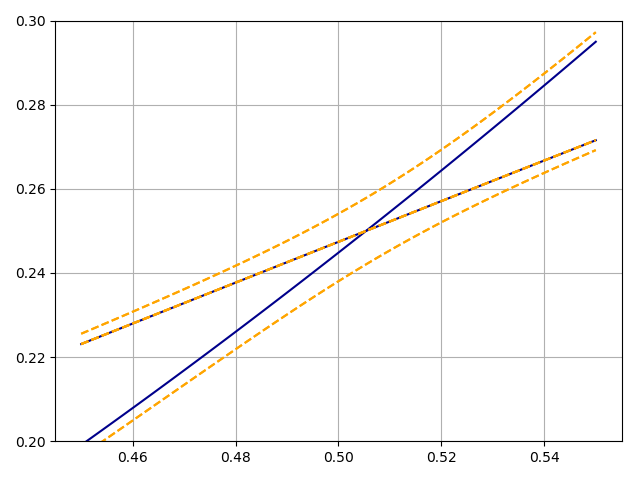
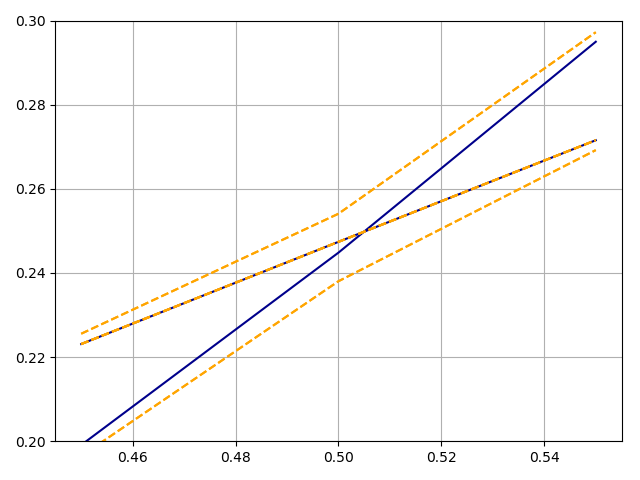
Modified magnonpolaron files.  "with base" file has a bug.

diff --git a/examples/magnonpolarons_with_base.py b/examples/magnonpolarons_with_base.py
@@ -1,0 +1,257 @@
+# coding: utf-8
+# !/usr/bin/env python
+
+import numpy as np
+import os
+import sys
+
+sys.path.insert(0, "..")
+from BosonicSystem import *
+
+os.chdir("..")
+
+# # # # # # # # # # # # # # # # # # # # # # # # # # # # # # # # # # # # # # # #
+# Constants
+# # # # # # # # # # # # # # # # # # # # # # # # # # # # # # # # # # # # # # # #
+N = 1  # number of sites per unit cell
+
+# phonon constants
+hbar = 1
+m = 1 * np.ones(N)
+Omega = np.array([[1.0, 0.0, 0.0],
+                  [0.0, 1.0, 0.0],
+                  [0.0, 0.0, 1.0]])
+
+# magnon constants
+mu_B = 1
+g = 1
+S = 1 * np.ones(N)
+J = 1
+Dz = 0
+Bz = 0 * np.ones(N)
+
+# magnon polarons constants
+Dprime = np.array([[0.0, 0.0, 0.0],
+                   [0.0, 0.0, 0.0],
+                   [0.0, 0.0, 0.0]])
+Bprime = np.array([[[0.01, 0.0, 0.0],
+                   [0.02, 0.0, 0.0],
+                   [0.03, 0.0, 0.0]]])
+
+# lattice constants
+a = 1
+k_arr = np.linspace(-np.pi/(N*a), np.pi/(N*a), num=100)
+
+k_arr = np.linspace(0.45, 0.55, num=1)
+ylim = [0.20, 0.30]
+
+# # # # # # # # # # # # # # # # # # # # # # # # # # # # # # # # # # # # # # # #
+# main
+# # # # # # # # # # # # # # # # # # # # # # # # # # # # # # # # # # # # # # # #
+def main():
+    dispersion_relation(k_arr)
+
+
+# # # # # # # # # # # # # # # # # # # # # # # # # # # # # # # # # # # # # # # #
+# Functions
+# # # # # # # # # # # # # # # # # # # # # # # # # # # # # # # # # # # # # # # #
+def order_eig(X):
+    vals, vecs = np.linalg.eig(X)
+    i_arr = np.argsort(vals)
+
+    return vals[i_arr], vecs[:, i_arr]
+
+
+def Phi_matrix(k):
+    """
+    Fourier transform of elastic interactions
+    """
+    matrix = np.zeros((3*N, 3*N), dtype=complex)
+
+    for j1 in range(0,3*N,3):
+        for j2 in range(0,3*N,3):
+            if(j1 == j2):
+                matrix[j1:j1+3, j2:j2+3] += 2 * Omega / np.sqrt(m[j1//3]*m[j2//3])
+            if(j1-3 == j2):
+                matrix[j1:j1+3, j2:j2+3] -= Omega / np.sqrt(m[j1//3]*m[j2//3])
+            if(j1 == j2-3):
+                matrix[j1:j1+3, j2:j2+3] -= Omega / np.sqrt(m[j1//3]*m[j2//3])
+            if(j1 == 0 and j2 == 3*N-3):
+                matrix[j1:j1+3, j2:j2+3] -= Omega / np.sqrt(m[j1//3]*m[j2//3]) * \
+                    np.exp(-1j*k*N*a)
+            if(j1 == 3*N-3 and j2 == 0):
+                matrix[j1:j1+3, j2:j2+3] -= Omega / np.sqrt(m[j1//3]*m[j2//3]) * \
+                    np.exp(1j*k*N*a)
+
+    return matrix
+
+
+def J_matrix(k):
+    matrix = np.zeros((N, N), dtype=complex)
+
+    for j1 in range(N):
+        for j2 in range(N):
+            if(j1-1 == j2):
+                matrix[j1,j2] += J
+            if(j1 == j2-1):
+                matrix[j1,j2] += J
+            if(j1 == 0 and j2 == N-1):
+                matrix[j1,j2] += J * np.exp(-1j*k*N*a)
+            if(j1 == N-1 and j2 == 0):
+                matrix[j1,j2] += J * np.exp(1j*k*N*a)
+
+    return matrix
+
+
+def Dz_matrix(k):
+    matrix = np.zeros((N, N), dtype=complex)
+
+    for j1 in range(0,N):
+        for j2 in range(0,N):
+            if(j1-1 == j2):
+                matrix[j1,j2] += Dz
+            if(j1 == j2-1):
+                matrix[j1,j2] -= Dz
+            if(j1 == 0 and j2 == N-1):
+                matrix[j1,j2] += Dz * np.exp(-1j*k*N*a)
+            if(j1 == N-1 and j2 == 0):
+                matrix[j1,j2] -= Dz * np.exp(1j*k*N*a)
+
+    return matrix
+
+
+def Dprime_tensor(k):
+    pass
+
+def Psi(k, eps_k):
+    s = 0
+    for beta in range(3):
+        s += np.sqrt(0.25*hbar*S) * (
+            S*np.abs(np.exp(1j*k*a)-1)**2*(1j*Dprime[0,beta]+Dprime[1,beta]) -
+            mu_B*g*(Bprime[0,beta]-1j*Bprime[1,beta])
+        )*eps_k[beta]
+    return s
+
+
+def create_Tmatrix(k):
+    # alpha = [a{k,1...N}, c{k,1...3*N}, a{-k,1...N}, c{-k,1...3*N}]
+    Tmatrix = np.zeros((8*N, 8*N), dtype=complex)
+
+    phi, eps_arr = order_eig(Phi_matrix(k))
+    Jk, J0 = J_matrix(k), J_matrix(0)
+    Dk, D0 = Dz_matrix(k), Dz_matrix(0)
+    Dprime_k, Dprime_0 = Dprime_tensor(k), Dprime_tensor(0)
+
+    # magnon terms
+    for j1 in range(N):
+        for j2 in range(N):
+            Tmatrix[j1,j1] += 0.5*np.sqrt(S[j1]*S[j2]) * J0[j1,j2]
+            Tmatrix[j2,j2] += 0.5*np.sqrt(S[j1]*S[j2]) * J0[j1,j2]
+            Tmatrix[j1,j2] -= 0.5*np.sqrt(S[j1]*S[j2]) * \
+                (Jk[j1,j2] + np.conjugate(Jk[j1,j2]))
+            Tmatrix[j1,j2] -= 0.5j*np.sqrt(S[j1]*S[j2]) * \
+                (Dk[j1,j2] - np.conjugate(Dk[j1,j2]))
+            Tmatrix[j1,j2] += Bz[j1] * (j1 == j2)
+
+            Tmatrix[4*N+j1,4*N+j1] += 0.5*np.sqrt(S[j1]*S[j2]) * J0[j1,j2]
+            Tmatrix[4*N+j2,4*N+j2] += 0.5*np.sqrt(S[j1]*S[j2]) * J0[j1,j2]
+            Tmatrix[4*N+j1,4*N+j2] -= 0.5*np.sqrt(S[j1]*S[j2]) * \
+                (Jk[j1,j2] + np.conjugate(Jk[j1,j2]))
+            Tmatrix[4*N+j1,4*N+j2] -= 0.5j*np.sqrt(S[j1]*S[j2]) * \
+                (Dk[j1,j2] - np.conjugate(Dk[j1,j2]))
+            Tmatrix[4*N+j1,4*N+j2] += Bz[j1] * (j1 == j2)
+
+    # phonon terms
+    for lambd in range(3*N):
+        Tmatrix[N+lambd,N+lambd] += 0.25*hbar * (np.conjugate(phi[lambd]) + 1)
+        Tmatrix[5*N+lambd,5*N+lambd] += 0.25*hbar * (np.conjugate(phi[lambd]) + 1)
+
+    # magnon-phonon interaction
+    for beta in range(3*N):
+        for lambd in range(3*N):
+            for j1 in range(N):
+                Tmatrix[j1,N+lambd] -= 0.5 * mu_B*g*np.sqrt(0.25*hbar*S[j1]) * \
+                    (Bprime[j1,0,beta]+1j*Bprime[j1,1,beta])*eps_arr[beta,lambd]
+                Tmatrix[N+lambd,j1] -= 0.5 * mu_B*g*np.sqrt(0.25*hbar*S[j1]) * \
+                    np.conjugate((Bprime[j1,0,beta]+1j*Bprime[j1,1,beta]) *
+                                 eps_arr[beta,lambd])
+                Tmatrix[5*N+lambd,4*N+j1] -= 0.5 * mu_B*g*np.sqrt(0.25*hbar*S[j1]) * \
+                    (Bprime[j1,0,beta]-1j*Bprime[j1,1,beta])*eps_arr[lambd,beta]
+                Tmatrix[4*N+j1,5*N+lambd] -= 0.5 * mu_B*g*np.sqrt(0.25*hbar*S[j1]) * \
+                    np.conjugate((Bprime[j1,0,beta]-1j*Bprime[j1,1,beta]) *
+                                 eps_arr[lambd,beta])
+                for j2 in range(N):
+                    pass
+
+    return Tmatrix
+
+
+def create_Umatrix(k):
+    # alpha = [a{k,1...N}, c{k,1...3*N}, a{-k,1...N}, c{-k,1...3*N}]
+    Umatrix = np.zeros((8*N, 8*N), dtype=complex)
+
+    phi, eps_arr = order_eig(Phi_matrix(k))
+    Jk, J0 = J_matrix(k), J_matrix(0)
+    Dk, D0 = Dz_matrix(k), Dz_matrix(0)
+
+    # magnon terms
+    None
+
+    # phonon terms
+    for lambd in range(3*N):
+        Umatrix[N+lambd,5*N+lambd] += 0.25*hbar * (np.conjugate(phi[lambd]) - 1)
+        Umatrix[5*N+lambd,N+lambd] += 0.25*hbar * (np.conjugate(phi[lambd]) - 1)
+
+    # magnon-phonon interaction
+    for beta in range(3*N):
+        for lambd in range(3*N):
+            for j1 in range(N):
+                Umatrix[j1,5*N+lambd] -= mu_B*g*np.sqrt(0.25*hbar*S) * \
+                    (Bprime[j1,0,beta]+1j*Bprime[j1,1,beta])*eps_arr[lambd,beta]
+                Umatrix[5*N+lambd,j1] -= mu_B*g*np.sqrt(0.25*hbar*S) * \
+                    (Bprime[j1,0,beta]+1j*Bprime[j1,1,beta])*eps_arr[lambd,beta]
+
+    return Umatrix
+
+
+def dispersion_relation(k_arr):
+    num_k = k_arr.shape[0]
+
+    energies = np.zeros((2*8*N, num_k), dtype=complex)
+    U = [None for _ in range(num_k)]
+
+    for i, k in enumerate(k_arr):
+        bosonic_system = BosonicSystem(create_Tmatrix(k), create_Umatrix(k))
+        energies[:,i], U[i] = bosonic_system.diagonalize()
+
+    fig = plt.figure()
+    ax = fig.add_subplot(111)
+    ax.plot(k_arr, phonon_energy(k_arr), color="darkblue")
+    ax.plot(k_arr, magnon_energy(k_arr), color="darkblue")
+    for i in range(len(energies)//2):
+        ax.plot(k_arr, np.real(energies[i,:]), '--', color="orange")
+
+    try:
+        ax.set_ylim(ylim)
+    except:
+        pass
+    ax.grid()
+    fig.tight_layout()
+    fig.savefig("img/magnon_polarons_with_base.png")
+
+    # plt.show()
+    plt.close(fig)
+
+
+def phonon_energy(k):
+    return hbar*Omega[0,0]*np.abs(np.sin(0.5*k_arr*a))
+
+def magnon_energy(k):
+    return 2*J*S*(1-np.cos(k*a)) - 2*Dz*S*np.sin(k*a) + Bz
+
+
+# # # # # # # # # # # # # # # # # # # # # # # # # # # # # # # # # # # # # # # #
+# main
+# # # # # # # # # # # # # # # # # # # # # # # # # # # # # # # # # # # # # # # #
+if __name__ == '__main__':
+    main()

diff --git a/examples/magnonpolarons_threedimensional.py b/examples/magnonpolarons_threedimensional.py
@@ -40,7 +40,7 @@ Bprime = np.array([[0.01, 0.0, 0.0],
 a = 1
 k_arr = np.linspace(-np.pi/a, np.pi/a, num=100)
 
-k_arr = np.linspace(0.45, 0.55, num=100)
+k_arr = np.linspace(0.45, 0.55, num=3)
 ylim = [0.20, 0.30]
 
 # # # # # # # # # # # # # # # # # # # # # # # # # # # # # # # # # # # # # # # #
@@ -80,21 +80,21 @@ def create_Tmatrix(k):
     w = 2*J*S*(1-np.cos(k*a)) - 2*Dz*S*np.sin(k*a) + mu_B*g*Bz
 
     # magnon terms
-    Tmatrix[0,0] = w
-    Tmatrix[4,4] = w
+    Tmatrix[0,0] += w
+    Tmatrix[4,4] += w
 
     # phonon terms
     for lambd in range(1,4):
-        Tmatrix[lambd,lambd] = u + v[lambd-1]
-        Tmatrix[4+lambd,4+lambd] = u + v[lambd-1]
+        Tmatrix[lambd,lambd] += u + v[lambd-1]
+        Tmatrix[4+lambd,4+lambd] += u + v[lambd-1]
 
     # magnon-phonon interaction
     for lambd in range(1,4):
-        Tmatrix[0,lambd] = 0.5*np.conjugate(Psi(k,vecs[:,lambd-1]))
-        Tmatrix[lambd,0] = 0.5*Psi(k,vecs[:,lambd-1])
+        Tmatrix[0,lambd] += 0.5*np.conjugate(Psi(k,vecs[:,lambd-1]))
+        Tmatrix[lambd,0] += 0.5*Psi(k,vecs[:,lambd-1])
 
-        Tmatrix[4,4+lambd] = 0.5*np.conjugate(Psi(k,vecs[:,lambd-1]))
-        Tmatrix[4+lambd,4] = 0.5*Psi(k,vecs[:,lambd-1])
+        Tmatrix[4,4+lambd] += 0.5*np.conjugate(Psi(k,vecs[:,lambd-1]))
+        Tmatrix[4+lambd,4] += 0.5*Psi(k,vecs[:,lambd-1])
 
     return Tmatrix
 
@@ -113,13 +113,13 @@ def create_Umatrix(k):
 
     # phonon terms
     for lambd in range(1,4):
-        Umatrix[lambd,4+lambd] = -u + v[lambd-1]
-        Umatrix[4+lambd,lambd] = -u + v[lambd-1]
+        Umatrix[lambd,4+lambd] += -u + v[lambd-1]
+        Umatrix[4+lambd,lambd] += -u + v[lambd-1]
 
     # magnon-phonon interaction
     for lambd in range(1,4):
-        Umatrix[0,4+lambd] = np.conjugate(Psi(k,vecs[:,lambd-1]))
-        Umatrix[0+lambd,4] = np.conjugate(Psi(k,vecs[:,lambd-1]))
+        Umatrix[0,4+lambd] += np.conjugate(Psi(k,vecs[:,lambd-1]))
+        Umatrix[0+lambd,4] += np.conjugate(Psi(k,vecs[:,lambd-1]))
 
     return Umatrix
 

diff --git a/examples/magnonpolarons_unidimensional.py b/examples/magnonpolarons_unidimensional.py
@@ -57,16 +57,16 @@ def create_Tmatrix(k):
     # alpha = {a{k}, c{k}, a{-k}, c{-k}}
     Tmatrix = np.zeros((4, 4), dtype=complex)
 
-    Tmatrix[0,0] = 2*J*S*(1-np.cos(k*a)) - 2*Dz*S*np.sin(k*a) + mu_B*g*Bz
-    Tmatrix[1,1] = hbar/(4*m) + hbar*m*omega**2*(1-np.cos(k*a))/2
-    Tmatrix[2,2] = 2*J*S*(1-np.cos(k*a)) - 2*Dz*S*np.sin(k*a) + mu_B*g*Bz
-    Tmatrix[3,3] = hbar/(4*m) + hbar*m*omega**2*(1-np.cos(k*a))/2
+    Tmatrix[0,0] += 2*J*S*(1-np.cos(k*a)) - 2*Dz*S*np.sin(k*a) + mu_B*g*Bz
+    Tmatrix[1,1] += hbar/(4*m) + hbar*m*omega**2*(1-np.cos(k*a))/2
+    Tmatrix[2,2] += 2*J*S*(1-np.cos(k*a)) - 2*Dz*S*np.sin(k*a) + mu_B*g*Bz
+    Tmatrix[3,3] += hbar/(4*m) + hbar*m*omega**2*(1-np.cos(k*a))/2
 
-    Tmatrix[0,1] = 0.5*np.conjugate(psi(k))
-    Tmatrix[1,0] = 0.5*psi(k)
+    Tmatrix[0,1] += 0.5*np.conjugate(psi(k))
+    Tmatrix[1,0] += 0.5*psi(k)
 
-    Tmatrix[2,3] = 0.5*np.conjugate(psi(k))
-    Tmatrix[3,2] = 0.5*psi(k)
+    Tmatrix[2,3] += 0.5*np.conjugate(psi(k))
+    Tmatrix[3,2] += 0.5*psi(k)
 
     return Tmatrix
 
@@ -75,11 +75,11 @@ def create_Umatrix(k):
     # alpha = {a{k}, c{k}, a{-k}, c{-k}}
     Umatrix = np.zeros((4, 4), dtype=complex)
 
-    Umatrix[1,3] = -hbar/(4*m) + hbar*m*omega**2*(1-np.cos(k*a))/2
-    Umatrix[3,1] = -hbar/(4*m) + hbar*m*omega**2*(1-np.cos(k*a))/2
+    Umatrix[1,3] += -hbar/(4*m) + hbar*m*omega**2*(1-np.cos(k*a))/2
+    Umatrix[3,1] += -hbar/(4*m) + hbar*m*omega**2*(1-np.cos(k*a))/2
 
-    Umatrix[0,3] = np.conjugate(psi(k))
-    Umatrix[1,2] = np.conjugate(psi(k))
+    Umatrix[0,3] += np.conjugate(psi(k))
+    Umatrix[1,2] += np.conjugate(psi(k))
 
     return Umatrix
 
